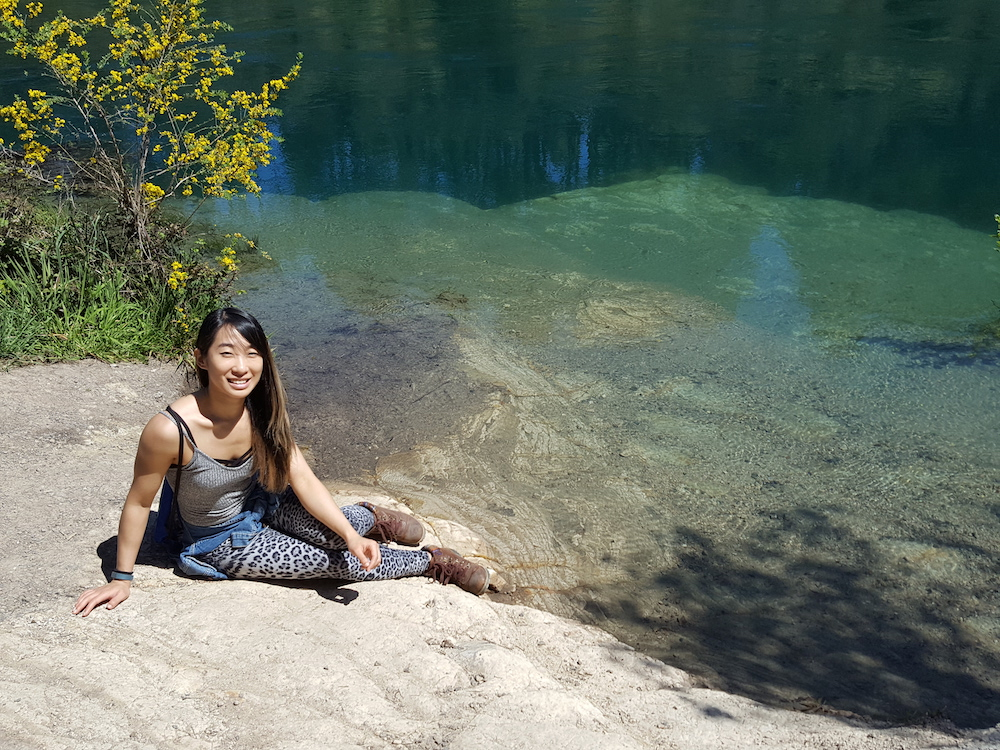
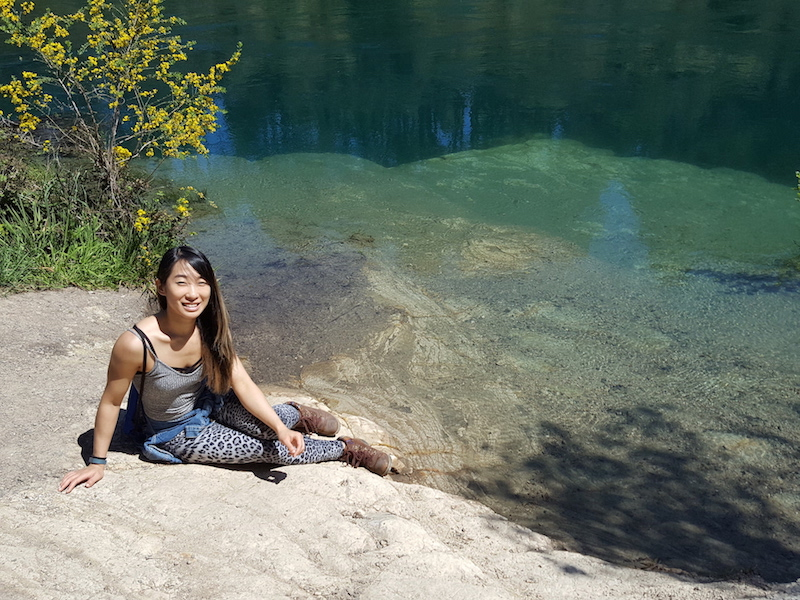
Update day 6 & 9 images

diff --git a/new-zealand/stylesheet/gallery.css b/new-zealand/stylesheet/gallery.css
@@ -15,8 +15,7 @@
 }
 
 .image-group {
-    width: 100%;
-    min-width: 300px;
+    width: 800px;
     display: inline-block;
     margin: 1em auto 0 auto;
 }
